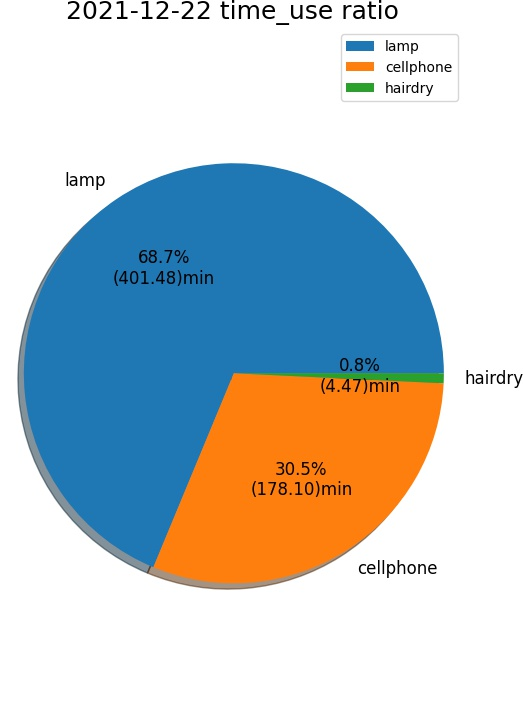
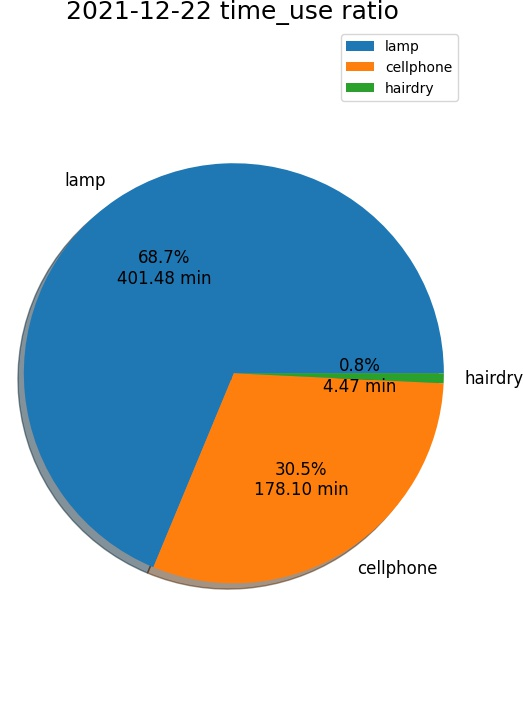
can store today's df into excel

Changed region(s): [[0.4589, 0.6722, 0.673, 0.7028], [0.2141, 0.3667, 0.4283, 0.3972], [0.6119, 0.5194, 0.7648, 0.55]]

diff --git a/data_transmission_part/js/main.js b/data_transmission_part/js/main.js
@@ -1,22 +1,77 @@
 var date = "";
+// Given a date in above format, return
+// previous day as a date object
+function getYesterday(d) 
+{
+    d = stringToDate(d);
+    d.setDate(d.getDate() - 1)
+    return d;
+}
+
 function print_date_message()
 {
+    // `date` is a `Date` object
+    const formatYmd = date => date.toISOString().slice(0, 10);
+    var now = new Date();
+    var day_diff = 1000 * 60 * 60 * 24 * 1;
+    
     var e = document.getElementById("dates").value;
-    document.getElementById( 
-                    "message").innerHTML = "顯示日期 : " + e;  
+     
     //window.alert(date_var);
     var date = "";
     if (e=="today")
     {
-        date = "2021-12-28_example";
-        
+        document.getElementById( 
+                    "message").innerHTML = "顯示日期 : " + String(formatYmd(now)); 
+        date = String(formatYmd(now));    
+    }
+    else if (e=="yesterday")
+    {
+        var d = new Date(now - day_diff);
+        document.getElementById( 
+                    "message").innerHTML = "顯示日期 : " + String(formatYmd(d));
+        date = String(formatYmd(d));    
+    }     
+    else if (e=="3days")
+    {
+        var d = new Date(now - day_diff*2);
+        document.getElementById( 
+                    "message").innerHTML = "顯示日期 : " + String(formatYmd(d));
+        date = String(formatYmd(d));     
+    } 
+    else if (e=="4days")
+    {
+        var d = new Date(now - day_diff*3);
+        document.getElementById( 
+                    "message").innerHTML = "顯示日期 : " + String(formatYmd(d));
+        date = String(formatYmd(d));
+    } 
+    else if (e=="5days")
+    {
+        var d = new Date(now - day_diff*4);
+        document.getElementById( 
+                    "message").innerHTML = "顯示日期 : " + String(formatYmd(d));
+        date = String(formatYmd(d));
+    }
+    else if (e=="6days")
+    {
+        var d = new Date(now - day_diff*5);
+        document.getElementById( 
+                    "message").innerHTML = "顯示日期 : " + String(formatYmd(d));
+        date = String(formatYmd(d));
     }
     else
     {
-        date = "2021-12-28_Pie chart of car accident";
-        
-    }     
-    document.getElementById('imageBox').src = "picture/" + date + ".jpg";       
+        var d = new Date(now - day_diff*12);
+        document.getElementById( 
+                    "message").innerHTML = "顯示日期 : " + String(formatYmd(d));
+        date = String(formatYmd(d));
+    }
+
+
+    document.getElementById('imageBox').src = "picture/" + date + "_Line chart" + ".jpg"; 
+    document.getElementById('imageBox1').src = "picture/" + date + " supply_use ratio" + ".jpg";
+    document.getElementById('imageBox2').src = "picture/" + date + " time_use ratio" + ".jpg";       
 }
 
 function initialize()
@@ -25,10 +80,13 @@ function initialize()
                     "message").innerHTML = "顯示日期 : 無";
     date = "";
     document.getElementById('imageBox').src = "";
+    document.getElementById('imageBox1').src = "";
+    document.getElementById('imageBox2').src = "";
 }
 
 window.onload = function()
 { 
+    
     print_date_message();
     initialize();
     var name = "kk";

diff --git a/data_transmission_part/htmlex.html b/data_transmission_part/htmlex.html
@@ -29,9 +29,16 @@
             <option value="" selected>請選擇欲查詢日期</option>
             <option value="today">today</option>
             <option value="yesterday">yesterday</option> 
+            <option value="3days">3 days ago</option>
+            <option value="4days">4 days ago</option>
+            <option value="5days">5 days ago</option>
+            <option value="6days">6 days ago</option>
+            <option value="7days">7 days ago</option>
         </select>
         <p id="message" ></p>
         <img src="" id="imageBox"/>
+        <img src="" id="imageBox1"/>
+        <img src="" id="imageBox2"/>
     </div>   
     <footer>
         <p><b>

diff --git a/data_transmission_part/pc_data.py b/data_transmission_part/pc_data.py
@@ -28,6 +28,7 @@ if __name__ == "__main__":
             conn.close()
             print('client closed connection.')
             break
+        
         df_string = indata.decode()
         #print(df_string)
         tmp = json.loads(df_string)
@@ -37,12 +38,20 @@ if __name__ == "__main__":
         df_again = pd.DataFrame.from_dict(tmp)
         #print(df_again)
         today_df = pd.concat([today_df, df_again], ignore_index=True)
+        
         tmp_df = preprocess.get_electricity_information(today_df)
-
-        draw_chart.export_line_chart(tmp_df, today_week_ago_df, today_date)
-        draw_chart.export_pie_chart(tmp_df, "supply_use", today_date)
-        draw_chart.export_pie_chart(tmp_df, "time_use", today_date)
-
+        tmp_df["P"] = tmp_df["P"].astype(float)
+        if not tmp_df.empty:
+            draw_chart.export_line_chart(tmp_df, today_week_ago_df, today_date)
+            draw_chart.export_pie_chart(tmp_df, "supply_use", today_date)
+            draw_chart.export_pie_chart(tmp_df, "time_use", today_date)
+        
+        tmp_day = datetime.datetime.now().strftime("%Y-%m-%d")
+        if tmp_day != today_date:
+            today_df.to_excel('data_storage/pandas_simple.xlsx', sheet_name=str(today)) 
+            today_df = today_df[0:0]
+            today = datetime.datetime.now().strftime("%a %b %d")
+            today = today.replace("0", " ")
         #outdata = 'echo ' + indata.decode()
         outdata = 'data echo confirmed'
         conn.send(outdata.encode())

diff --git a/data_transmission_part/draw_chart.py b/data_transmission_part/draw_chart.py
@@ -3,7 +3,7 @@ import pandas as pd
 import matplotlib.pyplot as plt
 
 def export_line_chart(df, df_week_ago, today):
-    ax = df.plot(x='time', y = 'supply_use', kind = 'line', c = "r", style=".-", label="today", rot=45, grid=False)
+    ax = df.plot(x='time', y = 'P', kind = 'line', c = "r", style=".-", label="today", rot=45, grid=False)
     
     # 設定圖例，參數為標籤、位置
     ax.legend(loc = 'best')
@@ -16,7 +16,7 @@ def export_line_chart(df, df_week_ago, today):
     if df_week_ago.empty:
         fig = ax.get_figure()
     else:
-        plot = df_week_ago.plot(x='time', y = 'supply_use', kind = 'line', c = "k", style='s-', label="week ago", 
+        plot = df_week_ago.plot(x='time', y = 'P', kind = 'line', c = "k", style='s-', label="week ago", 
                                 ax=ax, rot=45, grid=False) # 將x軸數字旋轉45度，避免文字重疊, 且移除格子
         ma = df_week_ago['supply_use'].rolling(3).mean() #計算均線
         mstd = df_week_ago['supply_use'].rolling(3).std() #計算標準差
@@ -33,9 +33,9 @@ unit_flag = 0
 def absolute_value(val):
     a  = sum(size)*val/100
     if unit_flag:
-        return '{:.1f}%\n({:.2f})min'.format(val, a)
+        return '{:.1f}%\n{:.2f} min'.format(val, a)
     else:
-        return '{:.1f}%\n({:.2f})KJ'.format(val, a)
+        return '{:.1f}%\n{:.2f} KJ'.format(val, a)
     
 def export_pie_chart(df, col, today):
     #pie chart

diff --git a/data_transmission_part/preprocess.py b/data_transmission_part/preprocess.py
@@ -22,6 +22,7 @@ def get_all_pic_and_today_df(path, today):
         for sheet_name in xls.sheet_names:  #get sheet_name
             df1 = pd.read_excel(xls, sheet_name=sheet_name)
             df = get_electricity_information(df1) #put electricity information into df
+            #print(df1.dtypes)
 
             month_tmp = datetime.datetime.strptime(df["month"][0], "%b")
             sheet_date = str(df['year'][0])+"-"+str(month_tmp.month)+"-"+str(df['date'][0])
@@ -29,14 +30,15 @@ def get_all_pic_and_today_df(path, today):
             tmp = datetime.datetime.strptime(sheet_date, "%Y-%m-%d")
             week_ago_date = (tmp + datetime.timedelta(days=-1)).strftime("%a %b %d")
             week_ago_date = week_ago_date.replace("0", " ") #find week ago's sheet name
-            print(week_ago_date)
+            print(sheet_date, tmp, week_ago_date, today)
 
             df_week_ago1 = pd.DataFrame()
             if week_ago_date in xls.sheet_names:
                 df_week_ago1 = pd.read_excel(xls, sheet_name=week_ago_date)
                 #print(df_week_ago.head(2))
             df_week_ago = get_electricity_information(df_week_ago1) #put electricity information into df
-
+		
+            
             if str(today) == sheet_name:
                 df_res = df1
                 df_week_ago_res = df_week_ago1

diff --git a/data_transmission_part/pi_data.py b/data_transmission_part/pi_data.py
@@ -7,11 +7,20 @@ import IOT_socket
 
 col = ['P', 'week', 'month', 'date', 'time', 'year', 'sec', 'Application', 'valid']
 inputdata = ["9.0","Thu","Dec","23","22:55:59","2021","1640271360","lamp","Y"]
+def socket_conn_Pi():
+    HOST = '0.0.0.0'
+    PORT = 7000
 
-if __name__ == "__main__":
-    s = IOT_socket.socket_conn_Pi()    
+    s = socket.socket(socket.AF_INET, socket.SOCK_STREAM)
+    s.settimeout(10)
+    s.connect((HOST, PORT))
+    
+    return s
 
+if __name__ == "__main__":  
+    s = socket_conn_Pi()
     while True:
+        
         for i in range(5):
         #inputdata = list(map(int,input("\nEnter the numbers : ").strip().split()))[:2]
 
@@ -30,4 +39,4 @@ if __name__ == "__main__":
             print('recv: ' + indata.decode())
             
             time.sleep(7)
-            df["P"] = str(i*i + 5)
+            df["P"] = str(i*i + 10)

diff --git a/data_transmission_part/IOT_socket.py b/data_transmission_part/IOT_socket.py
@@ -19,6 +19,7 @@ def socket_conn_Pi():
     PORT = 7000
 
     s = socket.socket(socket.AF_INET, socket.SOCK_STREAM)
+    s.settimeout(10)
     s.connect((HOST, PORT))
     
     return s
